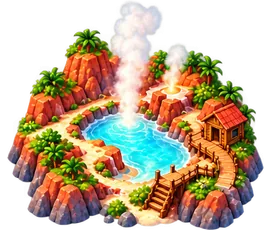
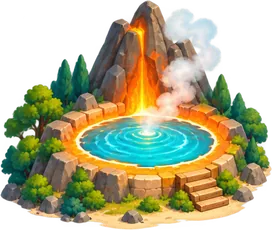
feat: add single-island map art and new topic thumbnails
Replace the archipelago scene with the Basecamp comp's single-island
illustration (1536 and 800px WebP, phones always get the small one) and
re-cut the topic thumbnails from the new sprite sheet. Labels and the pin
are repositioned over each landmark. On desktop the island grows past its
cell, under the list's edge and Σπίθα's panel and into the right gutter.
Source PNGs live in art/map; the old scene files are removed.

diff --git a/src/map/archipelago.css b/src/map/archipelago.css
@@ -43,6 +43,8 @@
 
   .topic-list {
     grid-area: list;
+    position: relative;
+    z-index: 1;
     display: grid;
     gap: 12px;
     margin: 0;
@@ -108,24 +110,28 @@
 
   /* ── Island scene ─────────────────────────────────────────── */
 
-  /* Scene and hotspots share one coordinate system; never crop with cover on desktop.
-     The sea feathers into the page so the island reads as a place, not a framed picture. */
+  /* Island and hotspots share one coordinate system (the 3:2 artwork); never crop it.
+     The artwork carries its own cloud edge on a transparent ground, so it sits straight on the page. */
   .archipelago-sea {
     grid-area: map;
     position: relative;
     isolation: isolate;
-    aspect-ratio: 1625 / 968;
+    aspect-ratio: 3 / 2;
+
+    /* Desktop: the island outgrows its cell, reaching left under the list's edge and down under
+       Σπίθα's panel, and a little into the right gutter; its soft cloud rim lets both sit on top of it.
+       Percentages are of the cell's width. */
+    @media (min-width: 900px) {
+      width: 108%;
+      margin: 0 -4% -10% -4%;
+    }
+    @media (min-width: 1200px) {
+      width: 118%;
+      margin: 0 -6% -12% -12%;
+    }
   }
   .archipelago-scene, .archipelago-scene img { display: block; width: 100%; height: 100%; }
-  .archipelago-scene {
-    position: absolute;
-    inset: 0;
-    pointer-events: none;
-    mask-image:
-      linear-gradient(to right, transparent, #000 6%, #000 94%, transparent),
-      linear-gradient(to bottom, transparent, #000 7%, #000 93%, transparent);
-    mask-composite: intersect;
-  }
+  .archipelago-scene { position: absolute; inset: 0; pointer-events: none; }
   .archipelago-islands { position: absolute; inset: 0; }
   .island-link {
     position: absolute;
@@ -135,11 +141,12 @@
     padding-bottom: 2%;
     text-decoration: none;
   }
-  .destination-electricity { left: 1%; top: 10%; width: 32%; height: 43%; }
-  .destination-light { left: 35%; top: 0%; width: 30%; height: 41%; }
-  .destination-heat { left: 68%; top: 5%; width: 31%; height: 45%; }
-  .destination-sound { left: 34%; top: 43%; width: 31%; height: 41%; }
-  .destination-forces { left: 66%; top: 51%; width: 33%; height: 45%; }
+  /* Boxes frame each landmark in the island artwork; the label sits at the box's foot. */
+  .destination-electricity { left: 25%; top: 12%; width: 12%; height: 19%; }
+  .destination-light { left: 60%; top: 6%; width: 10%; height: 26%; }
+  .destination-heat { left: 15%; top: 42%; width: 18%; height: 21%; }
+  .destination-sound { left: 54%; top: 54%; width: 18%; height: 23%; }
+  .destination-forces { left: 76%; top: 34%; width: 17%; height: 23%; }
   .island-caption {
     position: relative;
     padding: 6px 16px;
@@ -169,6 +176,8 @@
 
   .spitha-panel {
     grid-area: panel;
+    position: relative;
+    z-index: 1;
     display: grid;
     grid-template-columns: 112px minmax(0, 1fr) auto;
     align-items: center;
@@ -206,16 +215,8 @@
     @media (max-width: 899px) { margin: 0; }
   }
 
-  /* Phones and narrow tablets: the list is the map; the scene becomes a decorative banner. */
+  /* Phones and narrow tablets: the list is the map; the island follows it as decoration. */
   @media (max-width: 899px) {
-    .archipelago-sea {
-      aspect-ratio: 16 / 7;
-      overflow: hidden;
-      border-radius: var(--radius-card);
-      background: var(--color-sea);
-    }
-    .archipelago-scene { mask-image: none; }
-    .archipelago-scene img { object-fit: cover; object-position: 50% 40%; }
     .archipelago-islands { display: none; }
   }
   @media (prefers-reduced-motion: reduce) {

diff --git a/src/pages/MapPage.tsx b/src/pages/MapPage.tsx
@@ -9,7 +9,7 @@ import { useCurrentProfile } from '../profiles/useProfiles.ts'
 import { paths } from '../routes/paths.ts'
 import type { Topic, TopicId } from '../types.ts'
 
-/** Phones show the scene as a banner below the list, so only there may it wait for scrolling; on desktop it is the main image. */
+/** Phones show the island below the list, so only there may it wait for scrolling; on desktop it is the main image. */
 const sceneLoading = typeof window.matchMedia === 'function' && window.matchMedia('(max-width: 899px)').matches ? 'lazy' : undefined
 
 function topicProgress(topic: Topic, progress: MissionProgress) {
@@ -55,8 +55,10 @@ export function MapPage() {
       </ul>
       <div className="archipelago-sea">
         <picture className="archipelago-scene">
-          <source media="(max-width: 899px)" srcSet="/assets/map/scene-900.webp" />
-          <img src="/assets/map/scene-1625.webp" srcSet="/assets/map/scene-900.webp 900w, /assets/map/scene-1625.webp 1625w" sizes="(min-width: 1280px) 760px, 60vw" alt="" loading={sceneLoading} decoding="async" />
+          {/* Phones always get the small file, whatever their pixel density. */}
+          <source media="(max-width: 899px)" srcSet="/assets/map/island-800.webp" />
+          <img src="/assets/map/island-1536.webp" srcSet="/assets/map/island-800.webp 800w, /assets/map/island-1536.webp 1536w"
+            sizes="(min-width: 1280px) 892px, 70vw" width="1536" height="1024" alt="" loading={sceneLoading} decoding="async" />
         </picture>
         {/* Duplicates the list for pointer users only, so it stays out of the tab order and the accessibility tree. */}
         <div className="archipelago-islands" aria-hidden="true">

diff --git a/.impeccable/surfaces/src-pages-map-page-tsx.md b/.impeccable/surfaces/src-pages-map-page-tsx.md
@@ -17,13 +17,13 @@ OWN-WORLD: Preserve the Greek name, bundled Noto Sans, cream/teal/navy/coral/yel
 
 STORY: “Πού θα εξερευνήσεις σήμερα;” leads to five semantic topic links with real Greek text and progress. Electricity retains its mission count; the four unimplemented topics show “Σύντομα” (Soon) while remaining accessible. Existing progress and interrupted-mission resume behavior remain intact. This extension introduces no persistent profiles.
 
-FIRST VIEWPORT: Approved comp `.impeccable/mocks/map/explorers-basecamp.webp`. Visually hidden h1; explorer badge in the site header. Desktop (≥900px): topic list (up to 400px) on the left; the island scene with feathered edges on the right, with Σπίθα's panel below it showing the selected topic's goal and «Εξερεύνησε», or «Συνέχισε» for a mission under way. Below 900px: Σπίθα's prompt (or the resume panel), then the list, then a decorative 16:7 scene banner.
+FIRST VIEWPORT: Approved comp `.impeccable/mocks/map/explorers-basecamp.webp`. Visually hidden h1; explorer badge in the site header. Desktop (≥900px): topic list (up to 400px) on the left; the island illustration on the right, with Σπίθα's panel below it showing the selected topic's goal and «Εξερεύνησε», or «Συνέχισε» for a mission under way. Below 900px: Σπίθα's prompt (or the resume panel), then the list, then the whole island as decoration (no labels).
 
-FORM: Thumbnails `thumb-<topic>.webp` (272×230, cut from `archipelago.png`); scene `scene-1625.webp` / `scene-900.webp` until the comp's single-island illustration is produced (pending, label-free, roughly 2400×1500). The current scene still contains Σπίθα, so she appears twice on desktop until the new art lands.
+FORM: The comp's single-island illustration ships as `island-1536.webp` (desktop) and `island-800.webp` (phones), a 3:2 transparent plate with its own cloud edge, from source `art/map/island.png`. Thumbnails `thumb-<topic>.webp` (272×230) are cut from `art/map/thumbs-sheet.png`. Topic labels are HTML pills positioned by percentage boxes over each landmark.
 
 INTERACTION: Cards open their topic in one tap. Pointing at or focusing a card or map label selects that topic (sticky): the card highlights, a pin drops on its map label, and the panel updates. Scene labels are aria-hidden, tabIndex -1 pointer shortcuts. Reduced motion removes the lift, transitions and pin drop.
 
-FINISH: Typecheck, 67 tests and lint pass; checked at 1440 and 375px. No finish review run for this revision.
+FINISH: Typecheck, 67 tests and lint pass; label positions checked against the artwork offline, layout checked at 1440 and 375px. No finish review run for this revision.
 
 ## Preserved system and separate drift
 
